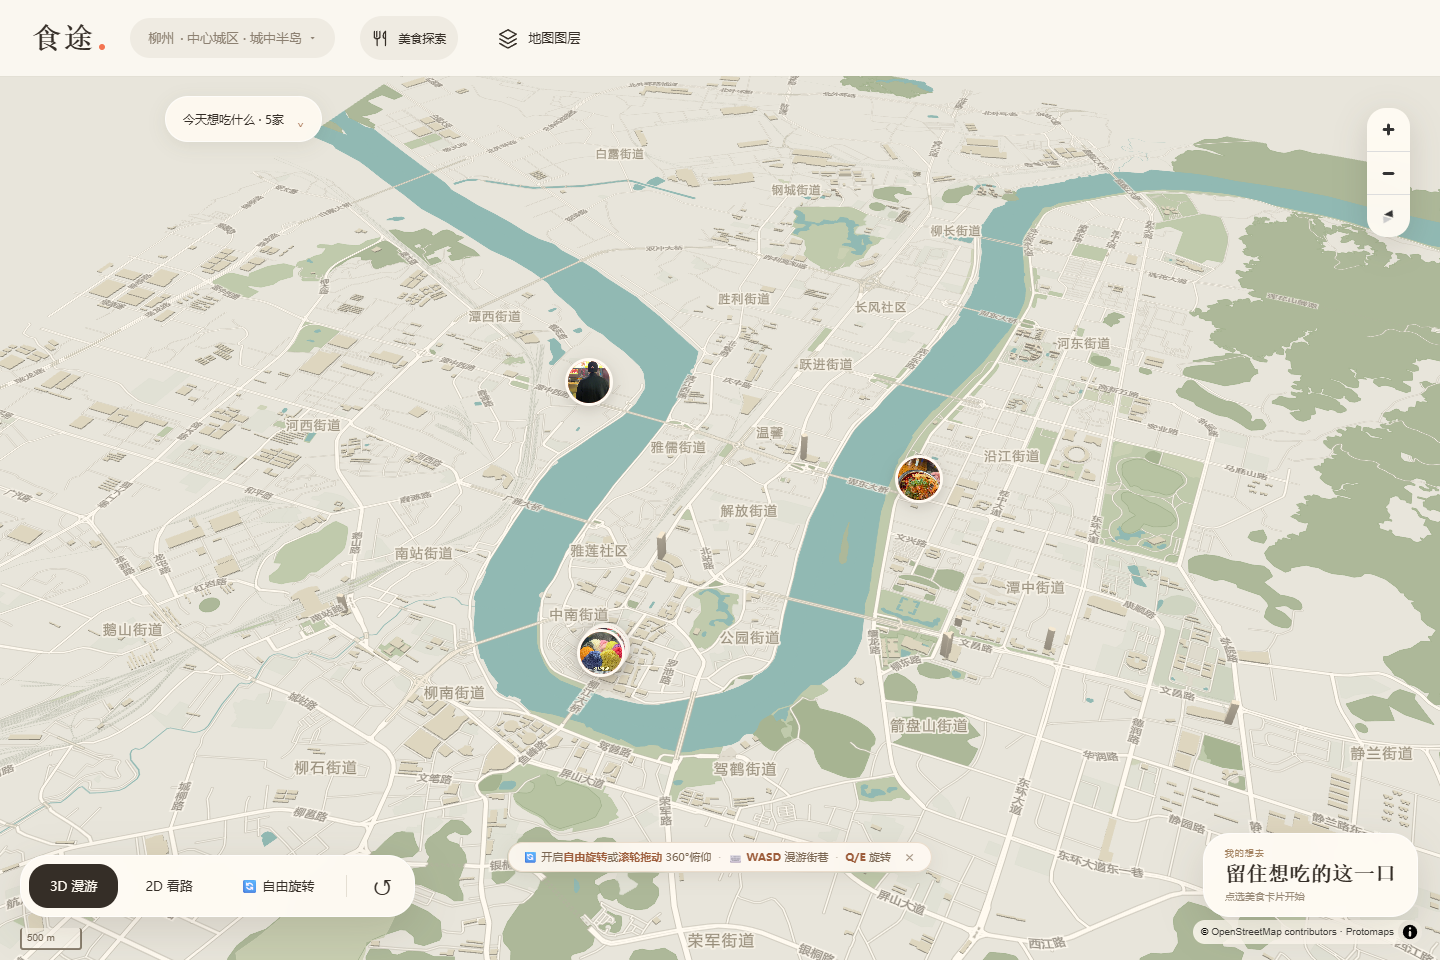
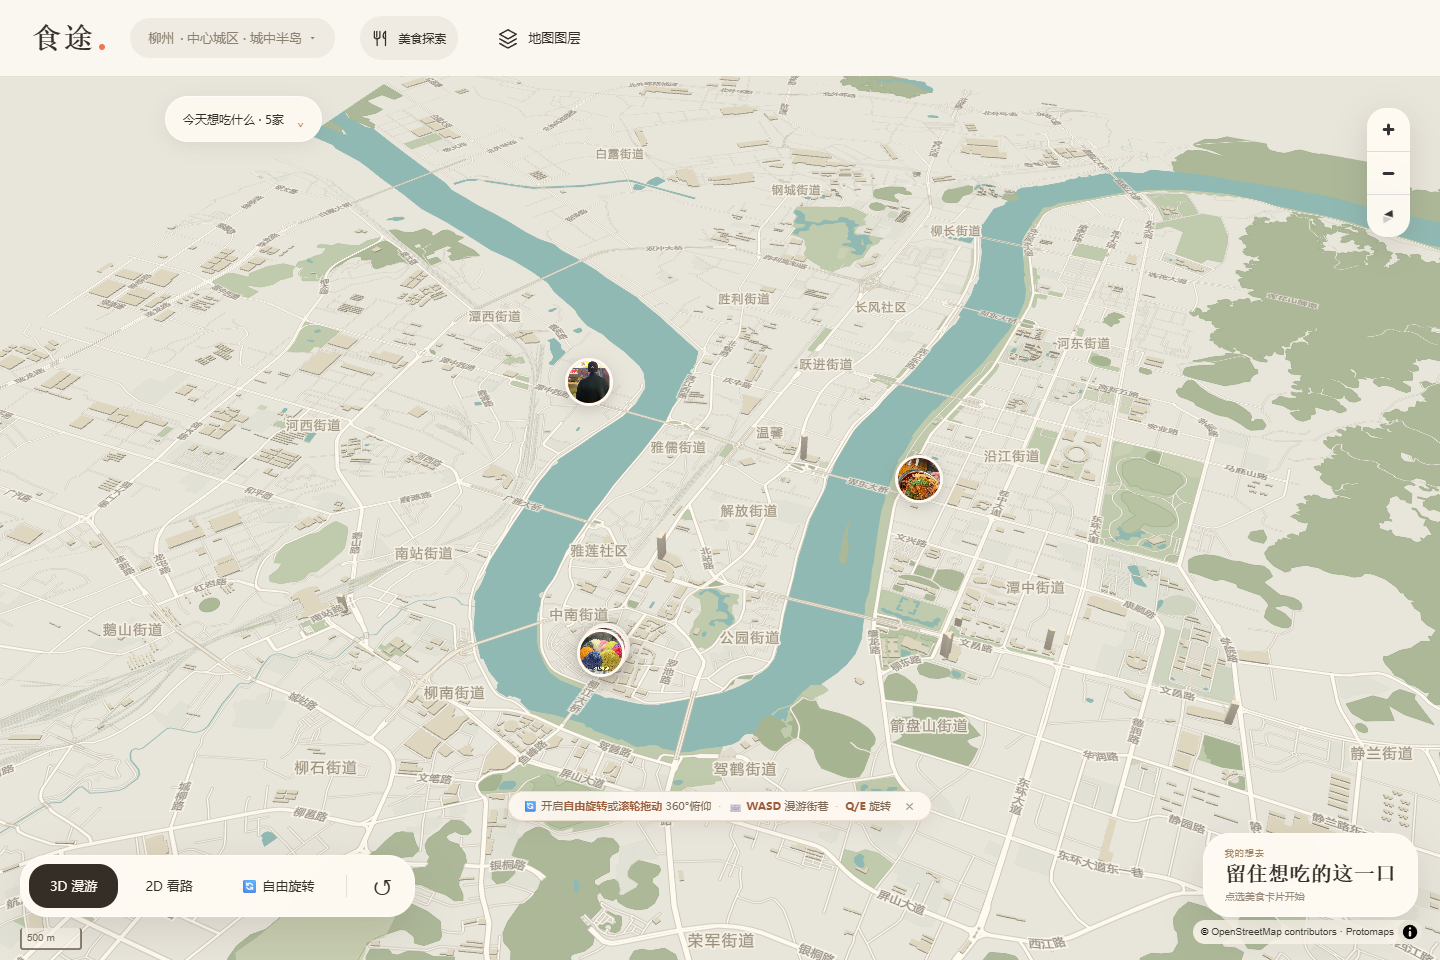
fix(layout): auto-lift spatial hint above trip dock to avoid overlap in food mode

Changed region(s): [[0.3438, 0.8125, 0.6562, 0.9062]]

diff --git a/map-base/src/styles.css b/map-base/src/styles.css
@@ -11,7 +11,7 @@
 .city-option{border:0;background:transparent;text-align:left;padding:10px 14px;border-radius:12px;font-size:13px;cursor:pointer;white-space:nowrap;color:var(--ink);transition:background .15s}
 .city-option:hover{background:var(--soft)}
 .city-option.active{font-weight:600;color:var(--coral);background:#f3745114}.search{margin-left:auto;margin-right:auto;max-width:440px;width:38%;display:flex;align-items:center;gap:10px;position:relative;padding:0 16px;height:46px;border-radius:24px;background:var(--soft);color:#8b7e70}.search svg{width:18px;height:18px}.search input{color:var(--ink);width:100%;border:0;outline:none;background:transparent;min-width:0;font-size:13px}.search input::placeholder{color:#a19687}.search button#clear-search{width:28px;height:28px;flex:none;border:0;border-radius:50%;background:#e1dace;font-size:21px}.layer-button{display:flex;gap:9px;align-items:center;min-height:44px;border:0;background:transparent;border-radius:23px;padding:10px 14px;white-space:nowrap;font-size:13px}.layer-button[aria-expanded=true],.layer-button:hover{background:var(--soft)}
-.map-shell{position:relative;flex:1;min-height:0;isolation:isolate;overflow:hidden}#map{position:absolute;inset:0}.paper{background:#fffbf4f5;backdrop-filter:blur(16px);box-shadow:0 12px 42px #453b2924;border:1px solid #fff9}.spatial-hint{position:absolute;bottom:88px;left:50%;transform:translateX(-50%);z-index:3;display:flex;align-items:center;gap:7px;padding:6px 14px;border-radius:20px;background:#fffaf3e6;backdrop-filter:blur(10px);border:1px solid #ebdccb;box-shadow:0 4px 18px #48392518;font-size:11px;color:#7a6652;white-space:nowrap;transition:opacity .3s,transform .3s;pointer-events:auto}.spatial-hint[hidden]{display:none!important}.spatial-hint strong{color:#9d5d3b;font-weight:600}.spatial-hint .hint-sep{opacity:.4}.spatial-hint button{border:0;background:transparent;padding:0 2px 0 6px;color:#a89785;font-size:15px;line-height:1;cursor:pointer}.spatial-hint button:hover{color:#705d4b}@media(max-width:768px){.spatial-hint{display:none}}
+.map-shell{position:relative;flex:1;min-height:0;isolation:isolate;overflow:hidden}#map{position:absolute;inset:0}.paper{background:#fffbf4f5;backdrop-filter:blur(16px);box-shadow:0 12px 42px #453b2924;border:1px solid #fff9}.spatial-hint{position:absolute;bottom:88px;left:50%;transform:translateX(-50%);z-index:5;display:flex;align-items:center;gap:7px;padding:6px 14px;border-radius:20px;background:#fffaf3e6;backdrop-filter:blur(10px);border:1px solid #ebdccb;box-shadow:0 4px 18px #48392518;font-size:11px;color:#7a6652;white-space:nowrap;transition:opacity .3s,transform .3s,bottom .35s cubic-bezier(.2,.8,.2,1);pointer-events:auto}.spatial-hint[hidden]{display:none!important}.spatial-hint strong{color:#9d5d3b;font-weight:600}.spatial-hint .hint-sep{opacity:.4}.spatial-hint button{border:0;background:transparent;padding:0 2px 0 6px;color:#a89785;font-size:15px;line-height:1;cursor:pointer}.spatial-hint button:hover{color:#705d4b}@media(max-width:900px){.spatial-hint{display:none}}
 .view-dock{position:absolute;bottom:32px;left:50%;transform:translateX(-50%);z-index:3;border-radius:27px;display:flex;align-items:center;gap:6px;padding:8px}.view-dock button{border:0;min-height:44px;border-radius:19px;background:transparent;padding:10px 21px;font-size:13px}.view-dock button.active{color:#fffaf1;background:var(--ink)}.view-dock button#view-orbit.active{color:#fffaf1;background:#a15438}.view-dock>span{height:22px;width:1px;background:var(--line);margin:0 5px}.view-dock #reset-view{font-size:24px;width:48px;padding:0}.about-map{position:absolute;left:20px;bottom:14px;z-index:2;background:#fffaf0d9;backdrop-filter:blur(10px);border:0;border-radius:13px;font-size:10px;padding:7px 10px;color:#776c5e}.about-map span{padding-left:5px}.maplibregl-ctrl-top-right{top:22px;right:20px}.maplibregl-ctrl-group{background:#fffbf3f5;border-radius:19px;overflow:hidden;box-shadow:0 8px 32px #453b2929!important;backdrop-filter:blur(16px)}.maplibregl-ctrl-group button{width:43px;height:43px;border-color:#e7e0d3}.maplibregl-ctrl-bottom-right{bottom:6px;right:8px}.maplibregl-ctrl-attrib{background:#fffaf0db!important;color:#7d7262;font-size:10px;max-width:calc(100vw - 25px);border-radius:9px}.maplibregl-ctrl-scale{border-color:#857b6a;color:#756a59;background:#fffaf099;margin:0 0 36px 20px!important;border-radius:3px;font-size:10px}.maplibregl-canvas:focus-visible{outline:3px solid #b8774f;outline-offset:-3px}
 .map-shell .food-inline-popover.is-height-limited{display:flex;flex-direction:column;height:var(--food-popover-available-height)}
 .map-shell .food-inline-popover.is-height-limited .food-popover-media{height:var(--food-popover-media-height);flex:none}
@@ -75,7 +75,7 @@ dialog{border:1px solid #fffc;background:var(--paper);padding:37px 34px 30px;bor
 .wants-dialog{width:610px}.wants-dialog>p{font-size:11px}.wants-dialog h2{margin-bottom:12px}.wants-dialog .trip-intro{margin-bottom:25px}.wants-dialog ol{padding:0;list-style:none;margin:0 0 20px}.wants-dialog .trip-row{display:grid;grid-template-columns:25px minmax(0,1fr) auto;align-items:center;gap:11px;padding:14px 0;border-bottom:1px solid var(--line)}.wants-dialog .trip-row:before{content:none}.trip-order{display:grid;place-items:center;width:25px;height:25px;border-radius:50%;background:#f8e3d5;color:#aa6549;font-size:11px;font-weight:600}
 .want-item{border:0;background:none;text-align:left;padding:4px 0;display:flex;align-items:center;gap:12px;min-width:0;border-radius:15px}.want-item:hover .trip-item-copy strong{color:#b86949}.trip-thumb{width:56px;height:56px;position:relative;flex:none;border-radius:14px;overflow:hidden}.trip-thumb>small{position:absolute;bottom:3px;right:3px;padding:1px 4px;border-radius:5px;background:#fff9efdf;color:#7e674e;font-size:8px;line-height:1.4}.trip-item-copy{display:grid;gap:5px;min-width:0}.want-item strong{font:600 18px/1.35 SimSun,"Songti SC",serif;overflow-wrap:anywhere;transition:color .2s}.trip-item-copy>small{font-size:10px;line-height:1.6;color:var(--muted);overflow-wrap:anywhere}.trip-row-actions{display:flex;align-items:center;gap:4px;flex:none}.trip-row-actions button{height:44px;min-width:44px;border:0;border-radius:14px;background:var(--soft)}.trip-row-actions button:hover:not(:disabled){background:#e8dfd0}.trip-row-actions .trip-move{font-size:17px}.trip-row-actions .trip-locate{font-size:11px;padding:0 10px}.trip-row-actions .trip-remove{width:44px;font-size:21px}.trip-row-actions button:disabled{opacity:.35;cursor:default}.trip-row-actions button:disabled:active{transform:none}
 .trip-map-all{width:100%;min-height:46px;border:0;border-radius:17px;background:var(--ink);color:var(--paper);font-size:13px}.trip-map-all:hover{background:#51463b}.wants-dialog #trip-order-note{margin:13px 0 0;font-size:10px;color:#958572}.wants-dialog #trip-save-note{padding:10px 12px;background:#fae6da;border-radius:12px;color:#a66042;font-size:11px;line-height:1.8}.wants-dialog .trip-location-note{padding-top:15px;margin:18px 0 0;border-top:1px solid var(--line);color:#a29482;font-size:10px;line-height:1.8}#wants-empty{padding:15px 0 22px;color:#948572}
-.trip-dock{position:absolute;right:22px;bottom:43px;z-index:4;display:flex;align-items:center;gap:12px;width:max-content;max-width:calc(100% - 390px);padding:12px 14px;border-radius:27px;animation:trip-emerge .45s cubic-bezier(.2,.8,.2,1.15) both}.trip-open{display:grid;gap:2px;min-width:148px;max-width:220px;flex:0 1 auto;background:none;border:0;border-radius:16px;text-align:left;padding:0 7px;min-height:52px}.trip-open>small{font-size:9px;line-height:1.4;letter-spacing:1px;color:#a48361}.trip-open>strong{font:600 21px/1.25 SimSun,"Songti SC",serif;white-space:nowrap}.trip-open>span{font-size:10px;line-height:1.5;color:#9b8d7b;white-space:nowrap}.trip-open:hover>strong{color:#a96548}.trip-stops{display:flex;align-items:center;gap:7px;min-width:0;overflow:auto;overscroll-behavior-x:contain;scrollbar-width:none;padding:4px;max-width:420px}.trip-stops::-webkit-scrollbar{display:none}.trip-stops:empty{display:none}.trip-stop{display:flex;align-items:center;gap:7px;min-height:44px;flex:none;padding:5px 12px 5px 5px;background:#f0e9df;border:0;border-radius:23px;font-size:12px;white-space:nowrap}.trip-stop:hover{background:#e9ddcf}.trip-number{display:grid;place-items:center;flex:none;width:28px;height:28px;border-radius:50%;color:#fffaf2;background:var(--coral);font-size:11px}.trip-overview,.trip-manage{flex:none;min-height:44px;padding:10px 15px;border:0;border-radius:18px;white-space:nowrap;font-size:12px}.trip-overview{background:var(--soft);color:#85725c}.trip-overview:hover{background:#e9e1d4}.trip-manage{background:var(--ink);color:var(--paper)}.trip-manage:hover{background:#51463b}.food-mode .view-dock{left:20px;bottom:43px;transform:none}.walk-mode .trip-dock{display:none}
+.trip-dock{position:absolute;right:22px;bottom:43px;z-index:4;display:flex;align-items:center;gap:12px;width:max-content;max-width:calc(100% - 390px);padding:12px 14px;border-radius:27px;animation:trip-emerge .45s cubic-bezier(.2,.8,.2,1.15) both}.trip-open{display:grid;gap:2px;min-width:148px;max-width:220px;flex:0 1 auto;background:none;border:0;border-radius:16px;text-align:left;padding:0 7px;min-height:52px}.trip-open>small{font-size:9px;line-height:1.4;letter-spacing:1px;color:#a48361}.trip-open>strong{font:600 21px/1.25 SimSun,"Songti SC",serif;white-space:nowrap}.trip-open>span{font-size:10px;line-height:1.5;color:#9b8d7b;white-space:nowrap}.trip-open:hover>strong{color:#a96548}.trip-stops{display:flex;align-items:center;gap:7px;min-width:0;overflow:auto;overscroll-behavior-x:contain;scrollbar-width:none;padding:4px;max-width:420px}.trip-stops::-webkit-scrollbar{display:none}.trip-stops:empty{display:none}.trip-stop{display:flex;align-items:center;gap:7px;min-height:44px;flex:none;padding:5px 12px 5px 5px;background:#f0e9df;border:0;border-radius:23px;font-size:12px;white-space:nowrap}.trip-stop:hover{background:#e9ddcf}.trip-number{display:grid;place-items:center;flex:none;width:28px;height:28px;border-radius:50%;color:#fffaf2;background:var(--coral);font-size:11px}.trip-overview,.trip-manage{flex:none;min-height:44px;padding:10px 15px;border:0;border-radius:18px;white-space:nowrap;font-size:12px}.trip-overview{background:var(--soft);color:#85725c}.trip-overview:hover{background:#e9e1d4}.trip-manage{background:var(--ink);color:var(--paper)}.trip-manage:hover{background:#51463b}.food-mode .view-dock{left:20px;bottom:43px;transform:none}.food-mode:has(#trip-dock:not([hidden])) .spatial-hint{bottom:calc(43px + var(--food-trip-dock-height,64px) + 12px)}.walk-mode .trip-dock{display:none}
 @keyframes trip-emerge{from{opacity:0;translate:0 12px}to{opacity:1;translate:0 0}}
 @media(max-width:1100px) and (min-width:901px){.trip-dock{gap:8px;max-width:calc(100% - 365px);right:20px;padding:10px 11px}.trip-open{min-width:130px;padding:0 3px}.trip-open>strong{font-size:19px}.trip-open>span{font-size:9px}.trip-overview,.trip-manage{padding:10px 12px}.food-mode .view-dock button{padding:10px 17px}}
 @media(max-width:900px){.trip-dock{left:20px;right:20px;bottom:43px;width:auto;max-width:none}.trip-stops{max-width:none;flex:1}.trip-open{min-width:148px;max-width:195px}.food-mode .view-dock{left:20px;bottom:142px}}
